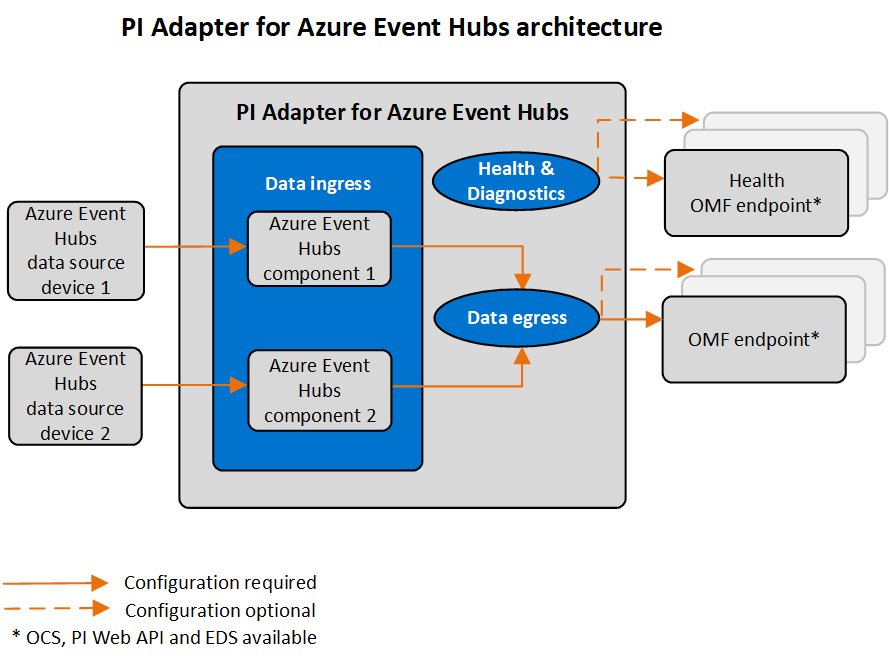
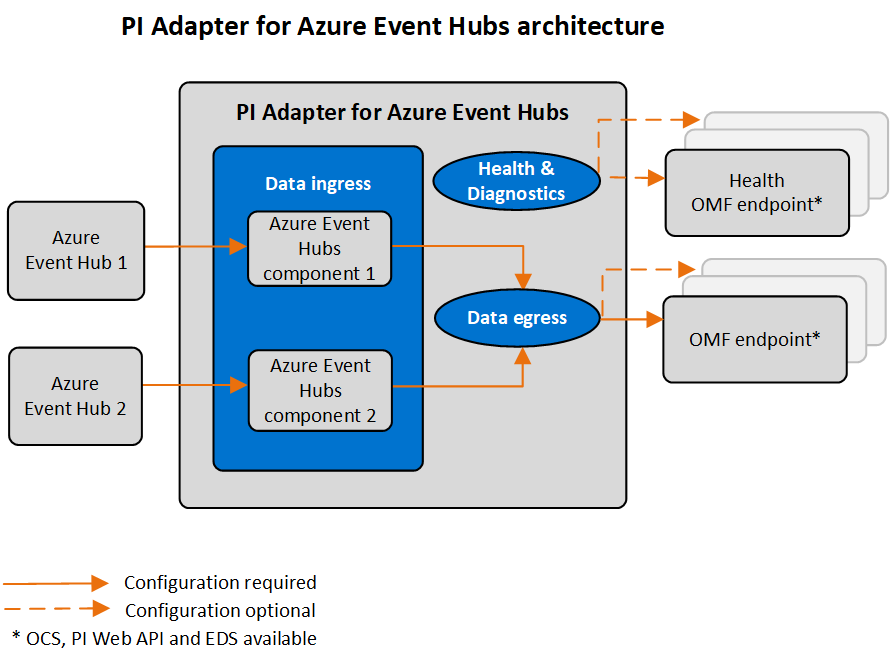
Build Agent Modified DocFX Site

diff --git a/V1/PI-Adapter-for-Azure-Event-Hubs-overview/pi-adapter-for-azure-event-hubs-principles-of-operation.html b/V1/PI-Adapter-for-Azure-Event-Hubs-overview/pi-adapter-for-azure-event-hubs-principles-of-operation.html
@@ -88,9 +88,11 @@
 </ul>
 <p>For more details, see <a class="xref" href="../Configuration/pi-adapter-for-azure-event-hubs-data-source-configuration.html">PI Adapter for Azure Event Hubs data source configuration</a> and <a class="xref" href="../Configuration/pi-adapter-for-azure-event-hubs-data-selection-configuration.html">PI Adapter for Azure Event Hubs data selection configuration</a>.</p>
 <h2 id="connection">Connection</h2>
-<p>The adapter communicates with the Azure Event Hubs devices through <!--Insert content here--></p>
+<p>The adapter communicates with the Azure Event Hubs platform using the <a href="https://www.amqp.org/about/what">AMQP (Advanced Message Queueing Protocol)</a>. Alternatively, the adapter can connect using AMQP over WebSockets using HTTPS protocol with corresponding adapter configuration. A Shared Access Signature (SAS) is required for the adapter to authenticate with the Azure Event Hub namespace, which is supplied by a valid connection string in the adapter&#39;s data source configuration.</p>
+<p>For more information, see <a class="xref" href="../Configuration/pi-adapter-for-azure-event-hubs-data-source-configuration.html">PI Adapter for Azure Event Hubs data source configuration</a>.</p>
 <h2 id="data-collection">Data collection</h2>
-<p>The adapter collects data from the <!-- Insert content here --> For more information see <a class="xref" href="../Configuration/pi-adapter-for-azure-event-hubs-data-selection-configuration.html">PI Adapter for Azure Event Hubs data selection configuration</a>.</p>
+<p>After data source and data selection items are configured, the adapter establishes a connection to each event hub within the event hub namespace for all event hubs specified in data selection items. Once a connection is established, the adapter begins consuming events from the event hubs and processes the events as soon as they are published by an event producer and become available to consumers.</p>
+<p>For more information see <a class="xref" href="../Configuration/pi-adapter-for-azure-event-hubs-data-selection-configuration.html">PI Adapter for Azure Event Hubs data selection configuration</a>.</p>
 <h3 id="data-types">Data types</h3>
 <p>The following table lists Azure Event Hubs variable types that the adapter collects data from and types of streams that will be created.</p>
 <table>

diff --git a/pi-adapter-for-azure-event-hubs-overview.html b/pi-adapter-for-azure-event-hubs-overview.html
@@ -71,8 +71,8 @@
             <article class="content wrap" id="_content" data-uid="PIAdapterForAzureEventHubsOverview">
 <h1 id="pi-adapter-for-azure-event-hubs-overview">PI Adapter for Azure Event Hubs overview</h1>
 
-<p>PI Adapter for Azure Event Hubs is a data-collection component that transfers time-series data from source devices to OMF endpoints in OSIsoft Cloud Services or PI Servers. Azure Event Hubs is <!-- Insert content here -->. The adapter can connect to any device that uses the Azure Event Hubs communication protocol
-<img src="V1/images/pi-adapter-for-azure-event-hubs-architecture-diagram.png" alt="PI Adapter for Azure Event Hubs architecture"></p>
+<p>PI Adapter for Azure Event Hubs is a data-collection component that transfers time-series data from Event Hubs to OMF endpoints in OSIsoft Cloud Services or PI Servers. Event Hubs is a data streaming platform and event ingestion service provided by Microsoft as part of the Azure Cloud platform. The adapter can connect to any Event Hub hosted in Azure that uses the Advanced Message Queueing Protocol (AMQP).</p>
+<p><img src="images/pi-adapter-for-azure-event-hubs-architecture-diagram.png" alt="PI Adapter for Azure Event Hubs architecture"></p>
 <h2 id="adapter-installation">Adapter installation</h2>
 <p>You can install the adapter with a download kit that you can obtain from the OSIsoft Customer Portal. You can install the adapter on devices running either Windows or Linux operating systems.</p>
 <h2 id="adapter-configuration">Adapter configuration</h2>

diff --git a/V1/index.html b/V1/index.html
@@ -78,8 +78,8 @@
             <article class="content wrap" id="_content" data-uid="index">
 <h1 id="pi-adapter-for-azure-event-hubs-overview">PI Adapter for Azure Event Hubs overview</h1>
 
-<p>PI Adapter for Azure Event Hubs is a data-collection component that transfers time-series data from source devices to OMF endpoints in OSIsoft Cloud Services or PI Servers. Azure Event Hubs is <!-- Insert content here -->. The adapter can connect to any device that uses the Azure Event Hubs communication protocol
-<img src="images/pi-adapter-for-azure-event-hubs-architecture-diagram.png" alt="PI Adapter for Azure Event Hubs architecture"></p>
+<p>PI Adapter for Azure Event Hubs is a data-collection component that transfers time-series data from Event Hubs to OMF endpoints in OSIsoft Cloud Services or PI Servers. Event Hubs is a data streaming platform and event ingestion service provided by Microsoft as part of the Azure Cloud platform. The adapter can connect to any Event Hub hosted in Azure that uses the Advanced Message Queueing Protocol (AMQP).</p>
+<p><img src="images/pi-adapter-for-azure-event-hubs-architecture-diagram.png" alt="PI Adapter for Azure Event Hubs architecture"></p>
 <h2 id="adapter-installation">Adapter installation</h2>
 <p>You can install the adapter with a download kit that you can obtain from the OSIsoft Customer Portal. You can install the adapter on devices running either Windows or Linux operating systems.</p>
 <h2 id="adapter-configuration">Adapter configuration</h2>
